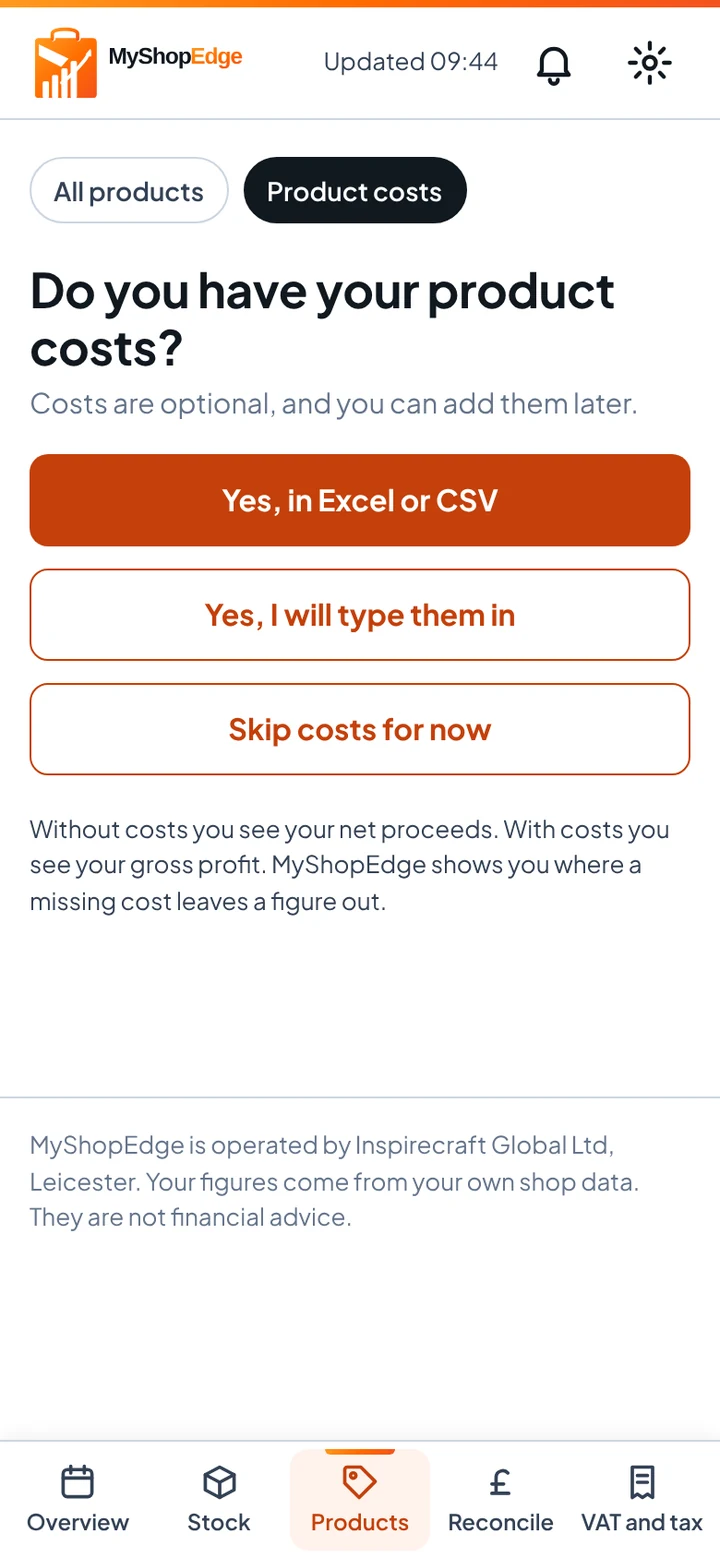
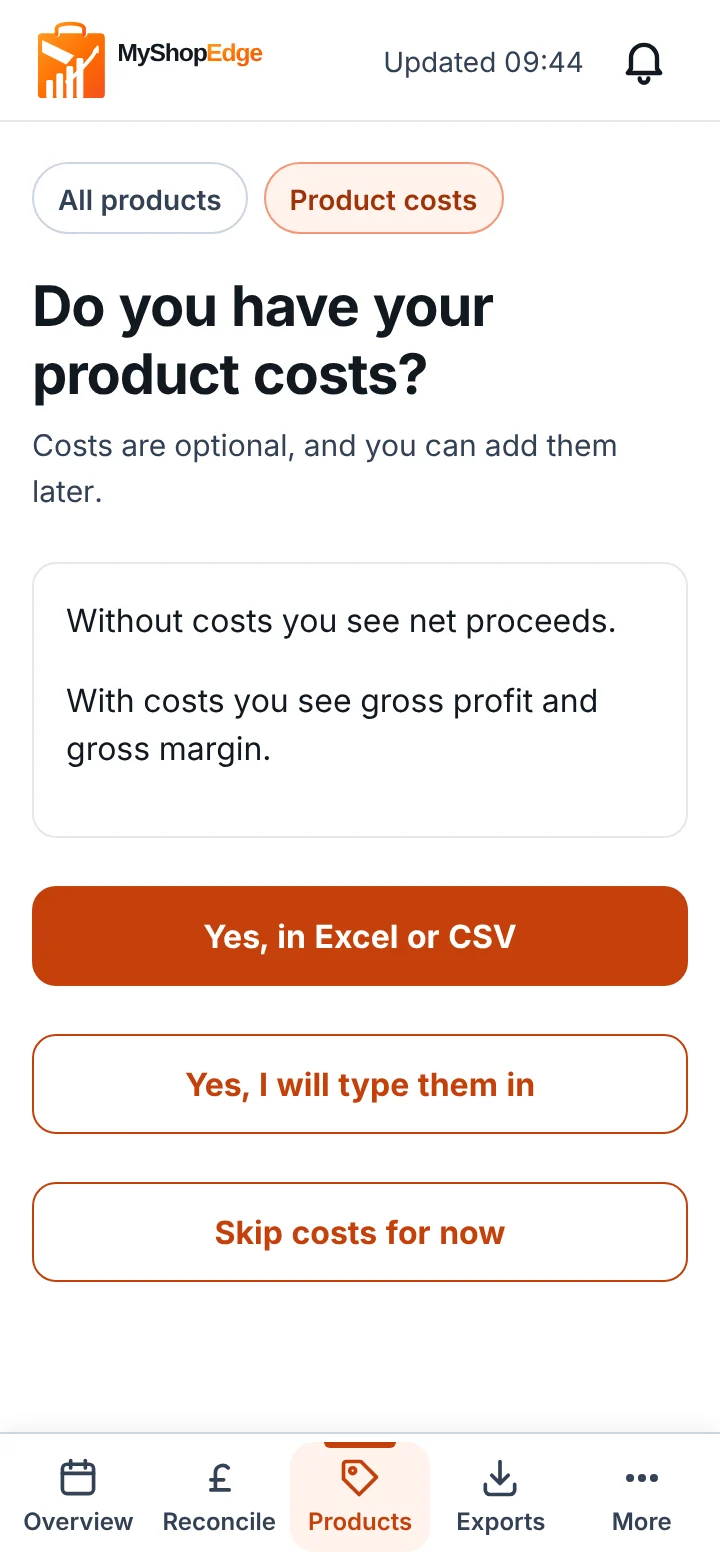
Landing page and screenshots for the TikTok Go Live resubmission
TikTok rejected the Go Live review on 10 October 2026 because the screenshots held many small
elements and a lot of text. On the owner's instructions of 11 October 2026:
- the landing page's words fall from 1,203 to 713, phrases in place of paragraphs;
- Product costs follows the page's pattern, words beside its screenshots, closing the gap;
- the footer's link columns sit on the same row as the company description;
- nothing on the landing page says demo, sample or made-up, and the demo loader names its
  shop "My TikTok Shop";
- body text is justified on a larger screen and left aligned on a phone;
- every landing screenshot is retaken from the A37 design;
- six large screenshots for the resubmission are in design/tiktok_review_11_october.
On a phone the app's switch labels no longer break, and the Exports subtitle is shorter.

Claude-Session: https://claude.ai/code/session_012aMiKMfksUffecLwDKmvEP

diff --git a/site/index.html b/site/index.html
@@ -1,5 +1,5 @@
 <!DOCTYPE html>
-<html lang="en">
+<html lang="en-GB">
 <head>
 <meta charset="UTF-8">
 <meta name="viewport" content="width=device-width, initial-scale=1, viewport-fit=cover">
@@ -316,6 +316,28 @@
     .shot-pair { grid-template-columns: repeat(2, minmax(0, 1fr)); }
   }
   @media (max-width: 420px) { .nav-actions .btn-ghost { display:none; } }
+
+  /* 11 October 2026, the owner's ruling for the TikTok resubmission. The footer's link columns sit
+     on the same row as the company description, not below it. */
+  .footer-top { display:grid; grid-template-columns: minmax(220px, 300px) 1fr; gap: 56px; align-items:start; }
+  .footer-nav { display:grid; grid-template-columns: auto auto auto minmax(250px, max-content); justify-content: space-between; gap: 32px; }
+  .footer-identity { max-width: none; }
+  .footer-col a { white-space: nowrap; }
+  .footer-identity a { white-space: normal; }
+  @media (max-width: 860px) {
+    .footer-top { grid-template-columns: 1fr; gap: 32px; }
+    .footer-nav { grid-template-columns: repeat(2, minmax(0, 1fr)); gap: 28px; }
+  }
+  /* Product costs follows the pattern of every other feature: words beside the screenshots. */
+  #features .feature-row { padding: 0; }
+  #features .shot-pair { grid-template-columns: repeat(2, minmax(0, 1fr)); gap: 16px; }
+  /* Justified text on a larger screen, where lines are long enough to justify cleanly. A phone
+     keeps ragged text, because justifying a short line opens wide gaps. */
+  @media (min-width: 861px) {
+    .section-head p, .feature-copy p, .step-card p, .problem-note, .hero-lead, .trust-head p {
+      text-align: justify; hyphens: auto; -webkit-hyphens: auto;
+    }
+  }
 </style>
 </head>
 <body>
@@ -352,9 +374,9 @@
   <header class="hero">
     <div class="wrap hero-grid">
       <div>
-        <span class="kicker">Built for UK TikTok Shop sellers.</span>
+        <span class="kicker">For UK TikTok Shop sellers</span>
         <h1>See what you actually keep from every TikTok Shop sale.</h1>
-        <p class="hero-lead">MyShopEdge puts your sales, fees, refunds, returns and payouts in one clear picture. Add product costs whenever you are ready to see gross profit and margin for every product.</p>
+        <p class="hero-lead">Sales, fees, refunds and payouts in one clear picture. Add product costs to see real profit on every product.</p>
         <div class="hero-ctas">
           <a class="btn large" href="https://app.myshopedge.inspirecraftglobal.com/start">
             Start your free 30-day trial
@@ -365,11 +387,11 @@
             <svg viewBox="0 0 24 24" fill="none" stroke="currentColor" stroke-width="2" stroke-linecap="round" stroke-linejoin="round" style="width:15px;height:15px;"><path d="M12 5v14M5 12l7 7 7-7"/></svg>
           </a>
         </div>
-        <p class="trust-line">Read-only access. No changes to your TikTok Shop. Add costs later.</p>
+        <p class="trust-line">Read-only access. Nothing in your shop changes.</p>
       </div>
       <div class="hero-visual-wrap">
         <div class="hero-glow" aria-hidden="true"></div>
-        <img class="hero-shot" src="shots/hero-money.webp" width="720" height="1558" alt="Where the money went for the demo shop: gross sales of &pound;7,173.00, seller discounts, net sales and each TikTok fee">
+        <img class="hero-shot" src="shots/hero-money.webp" width="720" height="1560" alt="The Overview: gross profit after returns of &pound;3,387.95, a 52.7% margin, and where the money went">
       </div>
     </div>
   </header>
@@ -379,7 +401,7 @@
       <div class="section-head">
         <div class="eyebrow-line"><span>The problem</span></div>
         <h2>TikTok pays you in pieces.</h2>
-        <p>A sale is not the same as a payout. Platform fees, seller discounts, affiliate commission, shipping, refunds, returns and later adjustments can all change what reaches your bank.</p>
+        <p>Fees, discounts, refunds and adjustments all come out before your payout.</p>
       </div>
       <div class="problem-grid">
         <div class="pain-list">
@@ -392,10 +414,10 @@
           <div class="pain-total"><span class="what">Your payout</span><span class="amount">&pound;40.75</span></div>
         </div>
         <div>
-          <p class="problem-note">Each line is a normal part of selling on TikTok Shop, not a mistake. Together they explain why the payout is smaller than the sale.</p>
+          <p class="problem-note">Each line is normal. Together they explain the gap between sale and payout.</p>
           <p class="bridge-line">
             <svg viewBox="0 0 24 24" fill="none" stroke="currentColor" stroke-width="2.4" stroke-linecap="round" stroke-linejoin="round"><path d="M5 12h14M13 6l6 6-6 6"/></svg>
-            MyShopEdge puts every deduction back into one clear picture.
+            MyShopEdge shows you every line.
           </p>
         </div>
       </div>
@@ -406,29 +428,30 @@
     <div class="wrap">
       <div class="section-head">
         <div class="eyebrow-line"><span>How it works</span></div>
-        <h2>You are set up in three steps.</h2>
-        <p>Connect your shop once, and MyShopEdge updates your figures every day.</p>
+        <h2>Set up in three steps.</h2>
+        <p>Connect once. Your figures update every day.</p>
       </div>
       <div class="steps-grid">
-        <div class="step-card"><span class="step-badge">1</span><h3>Connect your TikTok Shop</h3><p>Approve read-only access on TikTok&rsquo;s own page. MyShopEdge cannot change your shop, place orders or issue refunds. MyShopEdge starts reading up to 24 months of available orders and payouts.</p></div>
-        <div class="step-card"><span class="step-badge">2</span><h3>Choose a plan and start your trial</h3><p>Choose the plan you want after your trial, then add a card securely through Stripe. You pay &pound;0 today, and your 30-day free trial starts when checkout is complete.</p></div>
-        <div class="step-card"><span class="step-badge">3</span><h3>See what you keep</h3><p>Your net proceeds are there first. On the Growth and Pro plans, add product costs whenever you are ready to see gross profit and margin by product.</p></div>
+        <div class="step-card"><span class="step-badge">1</span><h3>Connect your TikTok Shop</h3><p>Approve read-only access on TikTok&rsquo;s own page. Up to 24 months of orders and payouts are read.</p></div>
+        <div class="step-card"><span class="step-badge">2</span><h3>Start your free trial</h3><p>Choose a plan and add a card through Stripe. &pound;0 today, 30 days free.</p></div>
+        <div class="step-card"><span class="step-badge">3</span><h3>See what you keep</h3><p>Net proceeds first. Add product costs for profit by product.</p></div>
       </div>
     </div>
   </section>
 
   <section class="band alt" id="features">
     <div class="wrap">
-      <div class="section-head">
-        <div class="eyebrow-line"><span>Product costs</span></div>
-        <h2>Know which products make you money.</h2>
-        <p>Revenue does not tell you what you made. Add your product costs by uploading an Excel or CSV file, or type them in one by one. MyShopEdge matches costs with TikTok Shop sales, fees and returns to show gross profit and margin by product.</p>
-        <p class="section-sub">Costs are optional. Start with your net proceeds today and add costs whenever you are ready.</p>
-        <p class="callout">Missing costs are clearly shown, so you know when a profit figure is incomplete.</p>
-      </div>
-      <div class="shot-pair">
-        <img src="shots/costs-choice.webp" width="720" height="1558" alt="The question Do you have your product costs, with Excel or CSV, type them in, and skip costs for now">
-        <img src="shots/costs-manual.webp" width="720" height="1558" alt="Typing product costs, with the share of units sold in the last 30 days that have a cost">
+      <div class="feature-row">
+        <div class="feature-copy">
+          <div class="feature-tag">Product costs</div>
+          <h3>Know which products make you money.</h3>
+          <p>Upload an Excel or CSV file, or type costs in. MyShopEdge matches them to your sales, fees and returns.</p>
+          <p class="feature-sub">Costs are optional. Missing costs are always flagged.</p>
+        </div>
+        <div class="shot-pair">
+          <img src="shots/costs-choice.webp" width="720" height="1560" alt="Do you have your product costs, with Excel or CSV, type them in, or skip for now">
+          <img src="shots/costs-manual.webp" width="720" height="1560" alt="Typing product costs, with cost coverage for the last 30 days">
+        </div>
       </div>
     </div>
   </section>
@@ -438,58 +461,58 @@
       <div class="feature-row">
         <div class="feature-copy">
           <div class="feature-tag">Money</div>
-          <h3>Every fee, refund and adjustment is named and reconciled.</h3>
-          <p>See platform commission, affiliate commission, shipping, promotions, refunds and other deductions separately. Nothing is folded into an unexplained total.</p>
+          <h3>Every fee, named.</h3>
+          <p>Commission, shipping, promotions and refunds, each on its own line. Open any line to see the orders behind it.</p>
         </div>
-        <div class="feature-visual"><img src="shots/money-fees.webp" width="720" height="1422" alt="Each TikTok fee on its own line, then net proceeds before refunds, refunds and net proceeds, for the demo shop"></div>
+        <div class="feature-visual"><img src="shots/money-fees.webp" width="720" height="1560" alt="Each TikTok fee on its own line, down to net proceeds and gross profit"></div>
       </div>
 
       <div class="feature-row reverse">
         <div class="feature-copy">
           <div class="feature-tag">Products</div>
-          <h3>See which products earn you the most, and which cost you.</h3>
-          <p>Rank products by gross profit after returns, see product margin and identify the products that need attention. Where costs are missing, see net proceeds and clear cost-status information instead.</p>
-          <p class="feature-sub">Product costs, gross profit and margin come with the Growth and Pro plans. On Starter, products are ranked by net proceeds.</p>
+          <h3>See what each product earns.</h3>
+          <p>Every unit, pound by pound: sales, fees, returns and cost, down to gross profit and margin.</p>
+          <p class="feature-sub">Growth and Pro plans. Starter ranks products by net proceeds.</p>
         </div>
-        <div class="feature-visual"><img src="shots/products-ranking.webp" width="720" height="1398" alt="Products ranked by gross profit after returns for the demo shop"></div>
+        <div class="feature-visual"><img src="shots/products-ranking.webp" width="720" height="1560" alt="One product, one unit pound by pound: gross sales, refunds, discounts, net sales and each fee"></div>
       </div>
 
       <div class="feature-row">
         <div class="feature-copy">
           <div class="feature-tag">Exports</div>
-          <h3>Your figures, reconciled and ready to export.</h3>
-          <p>Export a monthly summary, a full ledger or one row per order line in Excel or CSV. Choose sales basis to review activity by the day of sale, or cash basis to review it by the month TikTok settled it. A month summary has the same totals as MyShopEdge shows for the same period and basis.</p>
-          <p class="feature-sub">Exports come with the Growth and Pro plans. On the Pro plan, schedule weekly or monthly exports and receive an in-app notification when your file is ready.</p>
+          <h3>Export in a click.</h3>
+          <p>Month summary, ledger or order lines, in Excel or CSV. Totals match your Overview.</p>
+          <p class="feature-sub">Growth and Pro plans. Scheduled exports on Pro.</p>
         </div>
-        <div class="feature-visual"><img src="shots/exports.webp" width="720" height="1558" alt="The Exports screen, with what to export, period, basis and format"></div>
+        <div class="feature-visual"><img src="shots/exports.webp" width="720" height="1560" alt="The Exports screen, with what to export, period, basis and format"></div>
       </div>
 
       <div class="feature-row reverse">
         <div class="feature-copy">
           <div class="feature-tag">Returns</div>
-          <h3>Every return is checked, counted once and reflected in your figures.</h3>
-          <p>Mark returns as resellable or unsellable so stock, write-offs and product-profit figures remain accurate.</p>
+          <h3>Every return, counted once.</h3>
+          <p>Mark each return resellable or unsellable. Stock and profit stay right.</p>
         </div>
-        <div class="feature-visual"><img src="shots/returns.webp" width="720" height="1558" alt="A return check with the order, the refund, and the choices Resellable, Unsellable and Nothing came back"></div>
+        <div class="feature-visual"><img src="shots/returns.webp" width="720" height="1560" alt="A return check with the order, the refund, and the choices Resellable, Unsellable and Nothing came back"></div>
       </div>
 
       <div class="feature-row">
         <div class="feature-copy">
           <div class="feature-tag">VAT and tax</div>
-          <h3>Know when you are approaching the VAT threshold.</h3>
-          <p>MyShopEdge tracks available TikTok Shop turnover over a rolling 12-month period against the current &pound;90,000 VAT registration threshold and shows how much headroom remains. For eligible sole traders, it can also provide a planning estimate of Income Tax and National Insurance based on the shop data available. Add product costs for a more useful estimate.</p>
-          <p class="feature-sub">Tax figures are estimates based on the information in MyShopEdge and are not tax advice. Scottish Income Tax rates are not yet included.</p>
+          <h3>Watch the VAT threshold.</h3>
+          <p>12 months of turnover against the &pound;90,000 threshold, and an estimate of tax to set aside.</p>
+          <p class="feature-sub">Estimates, not tax advice. Scottish rates not yet included.</p>
         </div>
-        <div class="feature-visual"><img src="shots/tax.webp" width="720" height="1558" alt="The VAT and tax screen, with turnover against the &pound;90,000 threshold and the estimated reserve"></div>
+        <div class="feature-visual"><img src="shots/tax.webp" width="720" height="1560" alt="The VAT and tax screen, with turnover against the &pound;90,000 threshold and the estimated reserve"></div>
       </div>
 
       <div class="feature-row reverse">
         <div class="feature-copy">
           <div class="feature-tag">Stock</div>
-          <h3>Know what is running out before it does.</h3>
-          <p>See what is on hand, what has sold, what is coming back and what needs attention first.</p>
+          <h3>Know what is running low.</h3>
+          <p>On hand, coming back and days of cover for every product.</p>
         </div>
-        <div class="feature-visual"><img src="shots/stock.webp" width="720" height="1558" alt="The Stock screen, with units on hand and days of cover for each product"></div>
+        <div class="feature-visual"><img src="shots/stock.webp" width="720" height="1560" alt="The Stock screen, with units on hand and days of cover for each product"></div>
       </div>
     </div>
   </section>
@@ -499,15 +522,15 @@
       <div class="trust-head">
         <span class="icon"><img src="brand/mse-mark-colour.svg" alt=""></span>
         <h2>Your figures stay yours.</h2>
-        <p>MyShopEdge only reads your data. It cannot act on your shop, and you can disconnect at any time.</p>
+        <p>Read-only. Disconnect at any time.</p>
       </div>
       <div class="trust-grid">
-        <div class="trust-item"><h3>MyShopEdge can read your shop, and it can never change it.</h3><p>You approve read-only access on TikTok&rsquo;s own page.</p></div>
-        <div class="trust-item"><h3>It cannot place orders, issue refunds or touch your money.</h3><p>Nothing in MyShopEdge sends an instruction to your shop.</p></div>
-        <div class="trust-item"><h3>Your TikTok access is encrypted.</h3><p>The access TikTok gives MyShopEdge is stored encrypted.</p></div>
-        <div class="trust-item"><h3>Every connection to MyShopEdge uses HTTPS.</h3><p>Your figures travel encrypted between your browser and MyShopEdge.</p></div>
-        <div class="trust-item"><h3>A registered UK company runs it.</h3><p>Inspirecraft Global Ltd is registered with Companies House.</p></div>
-        <div class="trust-item"><h3>You can delete your account and its data from Settings.</h3><p>You can also disconnect your shop there at any time.</p></div>
+        <div class="trust-item"><h3>Read-only access</h3><p>Approved on TikTok&rsquo;s own page.</p></div>
+        <div class="trust-item"><h3>No orders, refunds or payments</h3><p>MyShopEdge never acts on your shop.</p></div>
+        <div class="trust-item"><h3>Encrypted access</h3><p>Your TikTok access is stored encrypted.</p></div>
+        <div class="trust-item"><h3>HTTPS everywhere</h3><p>Every connection is encrypted.</p></div>
+        <div class="trust-item"><h3>A UK registered company</h3><p>Inspirecraft Global Ltd, Companies House.</p></div>
+        <div class="trust-item"><h3>Delete at any time</h3><p>Remove your account and data in Settings.</p></div>
       </div>
     </div>
   </section>
@@ -518,34 +541,34 @@
     <div class="wrap">
       <div class="section-head">
         <div class="eyebrow-line"><span>Pricing</span></div>
-        <h2>Choose the plan that fits your order volume.</h2>
-        <p>Every plan starts with a 30-day free trial. You choose a plan after you connect your shop, then add a card securely through Stripe. You pay &pound;0 today. Your plan renews each month at its stated price unless you cancel in Settings before the trial ends. VAT is not currently charged.</p>
+        <h2>Choose your plan.</h2>
+        <p>30 days free on every plan. &pound;0 today. Renews monthly unless you cancel in Settings. No VAT charged.</p>
       </div>
       <div class="pricing-grid">
         <div class="plan-card">
           <h3>Starter</h3>
           <p class="plan-price"><span>&pound;9.99</span> a month</p>
-          <p class="plan-strap">Understand what TikTok Shop left you. Up to 100 orders a month.</p>
+          <p class="plan-strap">What TikTok Shop left you. Up to 100 orders a month.</p>
           <ul><li>Sales, fees, refunds and payouts in one Overview</li><li>The net proceeds breakdown, line by line</li><li>The status of every payout and statement</li><li>Refunds and returns</li><li>Products ranked by net proceeds</li><li>VAT registration threshold tracking</li><li>Standard support</li></ul>
-          <p class="plan-trial">&pound;0 due today. 30 days free, then &pound;9.99 a month unless you cancel in Settings.</p>
+          <p class="plan-trial">&pound;0 today. 30 days free, then &pound;9.99 a month.</p>
         </div>
         <div class="plan-card plan-card--highlight">
           <p class="plan-badge">Most popular</p>
           <h3>Growth</h3>
           <p class="plan-price"><span>&pound;24.99</span> a month</p>
-          <p class="plan-strap">Know which products actually make you money. Up to 500 orders a month.</p>
+          <p class="plan-strap">Profit by product. Up to 500 orders a month.</p>
           <ul><li>Everything in Starter</li><li>Product costs, uploaded in Excel or CSV or typed in</li><li>Cost matching and cost coverage</li><li>Gross profit and gross margin after returns, by product</li><li>The orders and deductions behind each product and figure</li><li>Month summary, ledger and transactions exports in Excel or CSV</li><li>Sales basis and cash basis</li><li>Standard support</li></ul>
-          <p class="plan-trial">&pound;0 due today. 30 days free, then &pound;24.99 a month unless you cancel in Settings.</p>
+          <p class="plan-trial">&pound;0 today. 30 days free, then &pound;24.99 a month.</p>
         </div>
         <div class="plan-card">
           <h3>Pro</h3>
           <p class="plan-price"><span>&pound;49.99</span> a month</p>
-          <p class="plan-strap">Keep your financial operations moving without spreadsheets. Up to 2,000 orders a month.</p>
+          <p class="plan-strap">No more spreadsheets. Up to 2,000 orders a month.</p>
           <ul><li>Everything in Growth</li><li>Scheduled weekly and monthly exports</li><li>Your recent export files in one list</li><li>Statements that need review, listed first</li><li>Priority support</li></ul>
-          <p class="plan-trial">&pound;0 due today. 30 days free, then &pound;49.99 a month unless you cancel in Settings.</p>
+          <p class="plan-trial">&pound;0 today. 30 days free, then &pound;49.99 a month.</p>
         </div>
       </div>
-      <p class="pricing-note">Every plan connects one TikTok Shop. If you pass your order allowance, MyShopEdge keeps working and lets you know which plan fits your volume.</p>
+      <p class="pricing-note">One TikTok Shop per plan. Go over your orders and nothing stops.</p>
     </div>
   </section>
 
@@ -556,7 +579,7 @@
         Start free trial
         <svg viewBox="0 0 24 24" fill="none" stroke="currentColor" stroke-width="2.4" stroke-linecap="round" stroke-linejoin="round"><path d="M5 12h14M13 6l6 6-6 6"/></svg>
       </a>
-      <p class="final-note">Clear pricing before you subscribe.</p>
+      <p class="final-note">&pound;0 today. Cancel any time.</p>
     </div>
   </section>
 
@@ -565,7 +588,7 @@
       <div class="footer-top">
         <div class="footer-brand">
           <div class="logo-lockup" style="margin-bottom:14px;"><img src="brand/mse-logo-horizontal.svg" alt="MyShopEdge, Know Your Numbers"></div>
-          <p>MyShopEdge is a product of Inspirecraft Global Ltd, Leicester. It is a read-only cost, order and payout reconciliation service for UK TikTok Shop sellers. Inspirecraft Global Ltd is registered with Companies House and with the Information Commissioner's Office.</p>
+          <p>A read-only reconciliation service for UK TikTok Shop sellers, by Inspirecraft Global Ltd, Leicester. Registered with Companies House and the Information Commissioner&rsquo;s Office.</p>
           <img class="ico-badge" src="brand/ico-registered.avif" alt="Registered with the Information Commissioner's Office">
         </div>
         <div class="footer-nav">
@@ -604,7 +627,6 @@
       </div>
       <div class="footer-bottom">
         <span>&copy; 2026 Inspirecraft Global Ltd. All rights reserved.</span>
-        <span>The screenshots show a demo shop with made-up figures.</span>
       </div>
     </div>
   </footer>

diff --git a/web/src/app/globals.css b/web/src/app/globals.css
@@ -716,6 +716,12 @@ tbody tr:last-child td { border-bottom: 0; }
 /* A compact switch sizes to its words rather than filling the row (A37 phase 2). On a phone
    it fills the row and keeps a 44 px target. */
 .switch--compact { flex: 1 1 100%; }
+/* On a phone a switch's words stay on as few lines as they can: a short label never breaks,
+   and a long one, such as Gross profit after returns, takes two lines at most. */
+@media (max-width: 40rem) {
+  .switch a { padding: var(--space-1) var(--space-2); font-size: 0.875rem; }
+  .switch--compact a { white-space: nowrap; }
+}
 @media (min-width: 40rem) {
   .switch--compact { flex: none; display: inline-flex; }
   .switch--compact a { flex: none; min-height: 36px; padding: 0 var(--space-4); font-size: 0.875rem; white-space: nowrap; }

diff --git a/web/src/app/shops/[shopId]/money/export/page.jsx b/web/src/app/shops/[shopId]/money/export/page.jsx
@@ -52,7 +52,7 @@ export default async function ExportPage({ params }) {
     <section data-testid="export-screen">
       <header className="page-head">
         <h1>Exports</h1>
-        <p>Build reconciliation-ready files for your records, accountant or bookkeeping workflow.</p>
+        <p>Excel or CSV files for your records or accountant.</p>
       </header>
       <ExportForm shopId={shopId} today={today} history={has("export_history")} />
       {has("scheduled_exports") ? (

diff --git a/testdata/load_demo.py b/testdata/load_demo.py
@@ -18,8 +18,10 @@ What it changes from `rows_year.json`, and why:
 
   * Every id is replaced, derived from the account, so the demo shop cannot collide with the
     synthetic shop already on the branch, which the generator gave the same ids.
-  * The shop is named "Demo shop (sample data)" and its TikTok id is `DEMO-` and the account,
-    so nobody mistakes it for a connected shop.
+  * The shop is named "My TikTok Shop" and its TikTok id is `DEMO-` and the account. It was
+    "Demo shop (sample data)" until 11 October 2026, when the owner ruled that no screen or
+    screenshot says demo data (TikTok's Go Live review rejected screenshots full of text). The
+    `DEMO-` id still keeps it apart from a connected shop.
   * Costs take effect on 1 January 2025 instead of 1 July 2026. Under A31.4 a unit is costed
     on its sale date, and the year dataset starts in October 2025, so with July's date nine
     of the twelve months would read kept as unknown. The demo is for walking the screens.
@@ -95,7 +97,7 @@ def load_shop(account) -> dict:
             for item in rows.get(table) or []:
                 item = {k: remap(v) for k, v in item.items()}
                 if table == "shops":
-                    item.update(tiktok_shop_id=f"DEMO-{account}", shop_name="Demo shop (sample data)",
+                    item.update(tiktok_shop_id=f"DEMO-{account}", shop_name="My TikTok Shop",
                                 seller_type="LOCAL", connection_status="connected")
                 if table == "tiktok_connections":
                     item.setdefault("access_token_enc", PLACEHOLDER)

diff --git a/design/tiktok_review_11_october/README.md b/design/tiktok_review_11_october/README.md
@@ -1,0 +1,17 @@
+# Screenshots for the TikTok Shop Go Live review, 11 October 2026
+
+TikTok rejected "My ShopEdge" on 10 October 2026 because its screenshots contained "many small
+elements or a lot of text". These six replace them. Each was taken from the production build of
+the web app after the A37 redesign, at a 1100 by 690 window and twice the pixel density, so each
+file is 2200 by 1380. The figures are the sample shop's, renamed "My TikTok Shop" on the local
+copy, so no screen says demo or sample data.
+
+1. `1-connect.png`: connecting a TikTok Shop through TikTok's own approval page.
+2. `2-overview.png`: the Overview, with gross profit after returns and its margin.
+3. `3-where-the-money-went.png`: the calculation, each TikTok fee on its own line.
+4. `4-records-behind-a-line.png`: a line opened to the orders behind it.
+5. `5-payouts.png`: payouts with their statement, difference and status.
+6. `6-returns.png`: checking a return.
+
+**Unverified:** TikTok's required size or format for these screenshots. The rejection email does
+not state one, and the Partner Center page was not readable from the session.
